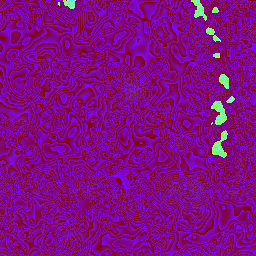
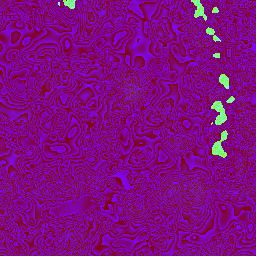
Correct the remaining terrain crest on Songshan’s Guangfu North Road Lane 11 (#465)
* Restore the original Taipei 101 Pocket City scene on the continuous map

* Restore Taipei 101’s original linework and keep MRT station pins visible

* Connect Xinyi streets and storefronts to the illustrated Taipei landmarks

* Show the surrounding Xinyi streets at the full-tower camera scale

* Continue Xinyi’s Pocket City streets and storefronts into Songshan

* Connect Pocket City streets and shopfronts across Taipei’s twelve districts

* Illustrate Xinyi mountain trails and Songshan’s Keelung riverbank

* Draw Taipei running tracks and frame schools on the continuous map

* Restore Taipei playing fields and clear misplaced roadside artwork

* Smooth Xinyi and Songshan streets and connect Taipei asphalt across bridge decks

* Rebuild Taipei street paint in continuous 200 m Pocket City cells

* Correct the remaining terrain crest on Songshan’s Guangfu North Road Lane 11

Changed region(s): [[0.1562, 0.6875, 0.5312, 0.9062]]

diff --git a/Prototypes/TaipeiPocketCity/scripts/build-taipei-street-grade.py b/Prototypes/TaipeiPocketCity/scripts/build-taipei-street-grade.py
@@ -93,6 +93,7 @@ def masks(data, boundary, area, x0, y0, dims, districts):
     # Inspect owning packs, including entries outside the district. They can
     # carry a long bridge or river which passes into the repair area.
     profiles = []
+    guangfu_alley = []
     for path in sorted((data/'city170').glob('p*.json.gz')):
         for f in read(path)['features']['features']:
             p = f['properties']
@@ -109,6 +110,8 @@ def masks(data, boundary, area, x0, y0, dims, districts):
             if p['kind'] == 'road' and not separated:
                 # At a grid pitch of 8.65 m, both polygon holes can snap onto
                 # the same row and erase a 3–5 m alley. Preserve its centreline.
+                if 'songshan' in districts and f['id'] in ('road/way/118880895','road/way/300503363'):
+                    guangfu_alley.append(g)
                 if not major:
                     draw_geometry(roads,g,x0,y0)
                 samples = road_samples(g, x0, y0, dims)
@@ -140,7 +143,7 @@ def masks(data, boundary, area, x0, y0, dims, districts):
     text = (ROOT/'taipei-dome-geography.js').read_text().split('export const domeApron=',1)[1]
     coords = json.JSONDecoder().raw_decode(re.sub(r',\s*]', ']', text.split('coordinates:',1)[1].lstrip()))[0]
     draw_geometry(structures,Polygon(coords[0]),x0,y0)
-    return [np.asarray(img) for img in (roads,natural,structures,region)], profiles
+    return [np.asarray(img) for img in (roads,natural,structures,region)], profiles, guangfu_alley
 
 
 def road_samples(line, x0, y0, dims):
@@ -158,12 +161,12 @@ def road_samples(line, x0, y0, dims):
     return samples[inside]
 
 
-def checked_profile(original, proposed, profiles):
+def checked_profile(original, proposed, profiles, step=4, focus=None, baseline=None):
     """Keep the survey correction where it can join the actual road grades.
 
-    One shared weight every four DEM pixels allows both sides of a street to
+    Shared weights on the control grid allow both sides of a street to
     follow the same correction. Bilinear interpolation of DEM heights along each
-    road is linear in those weights. Zero correction is always feasible.
+    road is linear in those weights. A surveyed focus can impose a tighter cap.
     """
     samples = np.concatenate(profiles)
     x,y,u,v,distance = samples.T
@@ -172,15 +175,24 @@ def checked_profile(original, proposed, profiles):
     signed = samples_of(original,u,v) - samples_of(original,x,y)
     old = abs(signed)/distance
     offsets = np.cumsum([len(p) for p in profiles])[:-1]
-    nearby = np.concatenate([maximum_filter1d(part,size=17,mode='nearest') for part in np.split(old,offsets)])
     # Bound small crests against their own 48 m neighbourhood. A repaired
     # interval over 7% may gain at most 1.5 grade points; a neighbourhood
     # already above 3.5% may gain at most half a grade point at its peak.
-    limits = np.minimum(np.maximum(.035,nearby+.005),np.maximum(.07,old+.015))*distance
+    def grade_limit(slopes):
+        nearby = np.concatenate([maximum_filter1d(part,size=17,mode='nearest') for part in np.split(slopes,offsets)])
+        return np.minimum(np.maximum(.035,nearby+.005),np.maximum(.07,slopes+.015))*distance
+    limits = grade_limit(old)
+    if baseline is not None:
+        raw_slope = abs(samples_of(baseline,u,v)-samples_of(baseline,x,y))/distance
+        # A cropped neighbourhood can omit a gradient beyond the window.
+        # In that case keep its previously validated grade as the upper bound.
+        limits = np.minimum(limits,np.maximum(abs(signed),grade_limit(raw_slope)))
+    if focus is not None:
+        inside=(samples_of(focus,x,y)>.98)&(samples_of(focus,u,v)>.98)
+        limits[inside]=np.minimum(limits[inside],.06*distance[inside])
     delta = proposed-original
     active = (samples_of(abs(delta),x,y)+samples_of(abs(delta),u,v))>0
     rows,cols = original.shape
-    step = 4
     width = (cols-1)//step+2
     count = width*((rows-1)//step+2)
 
@@ -218,6 +230,9 @@ def checked_profile(original, proposed, profiles):
         cross = sampled_correction(rx+dc,ry+dr)-sampled_correction(rx,ry)
         difference = original[ry+dr,rx+dc]-original[ry,rx]
         slope_cap = np.maximum(.15*M,abs(difference)+.04*M)-1/256
+        if baseline is not None:
+            raw_difference = baseline[ry+dr,rx+dc]-baseline[ry,rx]
+            slope_cap = np.minimum(slope_cap,np.maximum(.15*M,abs(raw_difference)+.04*M)-1/256)
         groups.extend([cross,-cross])
         allowed.extend([slope_cap-difference,slope_cap+difference])
     constraints = vstack(groups,format='csr')
@@ -284,6 +299,37 @@ def survey_grade(data, eligibility, bounds, x0, y0):
     return grade, support
 
 
+def refine_guangfu_alley(before, after, lines, profiles, target, support, protected, origin):
+    """Remove the short residual crest on the two surveyed Guangfu N. Rd Lane 11 ways."""
+    route = unary_union(lines)
+    west, south, east, north = route.bounds
+    # A 200 m margin contains the complete 160 m taper and the 12 m samples
+    # on approaching roads. Optimize only this window at native DEM resolution.
+    padding = math.ceil(200/M)
+    left, top = np.floor(screen_xy(west,north)).astype(int) - origin - padding
+    right, bottom = np.ceil(screen_xy(east,south)).astype(int) - origin + padding
+    window = np.s_[top:bottom,left:right]
+    current = after[window]
+    width, height = right-left, bottom-top
+    ink = Image.new('1',(width,height))
+    draw_geometry(ink,route,origin[0]+left,origin[1]+top)
+    distance = distance_transform_edt(~np.asarray(ink))*M
+    grade = target[window]
+    blend = (1-ramp(25,160,distance))*ramp(.55,.88,support[window])
+    blend *= (1-ramp(.018,.048,np.hypot(*np.gradient(grade,M))))
+    blend *= ramp(22,46,distance_transform_edt(~protected[window])*M)
+    focus = ((distance<25) & (blend>.7)).astype(float)
+    offset = np.array([left,top,left,top,0])
+    sections = []
+    for samples in profiles:
+        local = samples-offset
+        keep = np.all((local[:,:4]>=0)&(local[:,:4]<[width-1,height-1,width-1,height-1]),axis=1)
+        if keep.any():
+            sections.append(local[keep])
+    after[window] = checked_profile(current,current+blend*(grade-current),sections,
+                                    step=1,focus=focus,baseline=before[window])
+
+
 DISTRICTS = {'xinyi':'信義區','songshan':'松山區','daan':'大安區','zhongshan':'中山區',
              'zhongzheng':'中正區','datong':'大同區','wanhua':'萬華區','shilin':'士林區',
              'beitou':'北投區','neihu':'內湖區','nangang':'南港區','wenshan':'文山區'}
@@ -311,7 +357,7 @@ def build(output, districts=None):
             tiles[x,y] = window
             before[window] = BASE['decode'](source(x,y))
             valid[window] = True
-    (roads,natural,structures,region),profiles = masks(data,boundary,box(*limits),256*a,256*b,dims,districts)
+    (roads,natural,structures,region),profiles,guangfu = masks(data,boundary,box(*limits),256*a,256*b,dims,districts)
     road_dist = distance_transform_edt(~roads)*M
     # A false roof plateau can cover a whole city block between two streets.
     # Retain one block of survey support so its centre cannot pin the carriageway.
@@ -333,6 +379,8 @@ def build(output, districts=None):
     border = distance_transform_edt(np.pad(valid,1))[1:-1,1:-1]
     mask *= ramp(18,65,border*M) * candidate
     after = checked_profile(before, before+mask*(grade-before), profiles)
+    if guangfu:
+        refine_guangfu_alley(before,after,guangfu,profiles,grade,support,natural|structures,(256*a,256*b))
     output.mkdir(parents=True,exist_ok=True)
     changed = []
     for (x,y),window in sorted(tiles.items()):

diff --git a/Prototypes/TaipeiPocketCity/tools/test_taipei_street_grade.py b/Prototypes/TaipeiPocketCity/tools/test_taipei_street_grade.py
@@ -43,7 +43,7 @@ def road_profile(feature, new):
 class StreetGrade(unittest.TestCase):
     @classmethod
     def setUpClass(cls):
-        wanted = {'road/way/48810790','road/way/118880895'}
+        wanted = {'road/way/48810790','road/way/118880895','road/way/300503363','road/way/35992785'}
         cls.examples = {}
         for path in (ROOT/'data/city170').glob('p*.json.gz'):
             for f in json.loads(gzip.decompress(path.read_bytes()))['features']['features']:
@@ -66,6 +66,33 @@ class StreetGrade(unittest.TestCase):
                 self.assertLess(max(abs(new[12:]-new[:-12])),.75*max(abs(old[12:]-old[:-12])))
             if ident=='48810790':
                 self.assertLess(np.ptp(after),2)
+
+    def test_guangfu_alley_east_approach_from_measured_blocks(self):
+        # Both ends of the previous eastern crest have neighbouring 2025 LOD1
+        # building-base bins at 5.22–5.28 m. Check every metre along the main
+        # 323 m way, so relocating the 12 m crest to the next intersection fails.
+        way = self.examples['road/way/118880895']
+        grade,xy = road_profile(way,True)
+        self.assertGreater(len(grade),315)
+        self.assertLess(np.max(abs(grade[12:]-grade[:-12]))/12,.065)
+        witness = np.argmin(np.hypot((xy[:,0]-121.56039)*100780,(xy[:,1]-25.05004)*110800))
+        self.assertLess(abs(grade[witness]-5.28),1.5)
+        east = self.examples['road/way/300503363']
+        eastern_grade,_ = road_profile(east,True)
+        self.assertLess(np.max(abs(eastern_grade[12:]-eastern_grade[:-12]))/12,.075)
+        west_coords = way['geometry']['coordinates']
+        east_coords = east['geometry']['coordinates']
+        self.assertEqual(west_coords[-1],east_coords[-1])
+        joined = {'geometry':{'coordinates':west_coords + east_coords[-2::-1]}}
+        complete,_ = road_profile(joined,True)
+        peak = abs(complete[12:]-complete[:-12])/12
+        self.assertLess(peak.max(),.075)
+        join = len(grade)-1
+        self.assertLess(peak[join-11:join+1].max(),.071)
+        jixiang = self.examples['road/way/35992785']
+        self.assertIn(east_coords[0],jixiang['geometry']['coordinates'])
+        side,_ = road_profile(jixiang,True)
+        self.assertLess(np.max(abs(side[12:]-side[:-12]))/12,.05)
 
     def test_registered_ground_water_hills_and_bridge(self):
         old = GEN['BASE']['decode'](ROOT/'data/city-streets/terrain/14-13724-7014.png')
